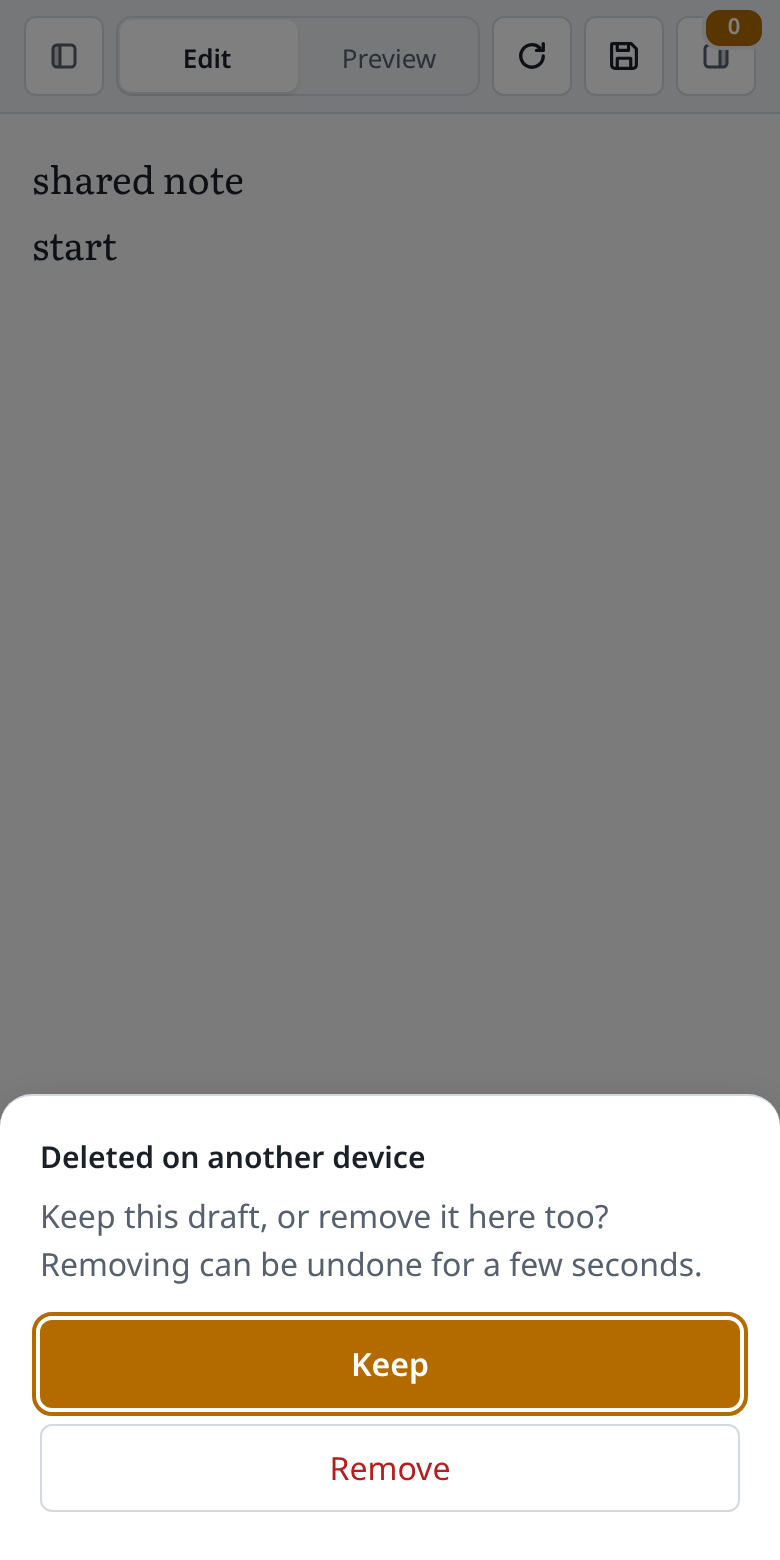
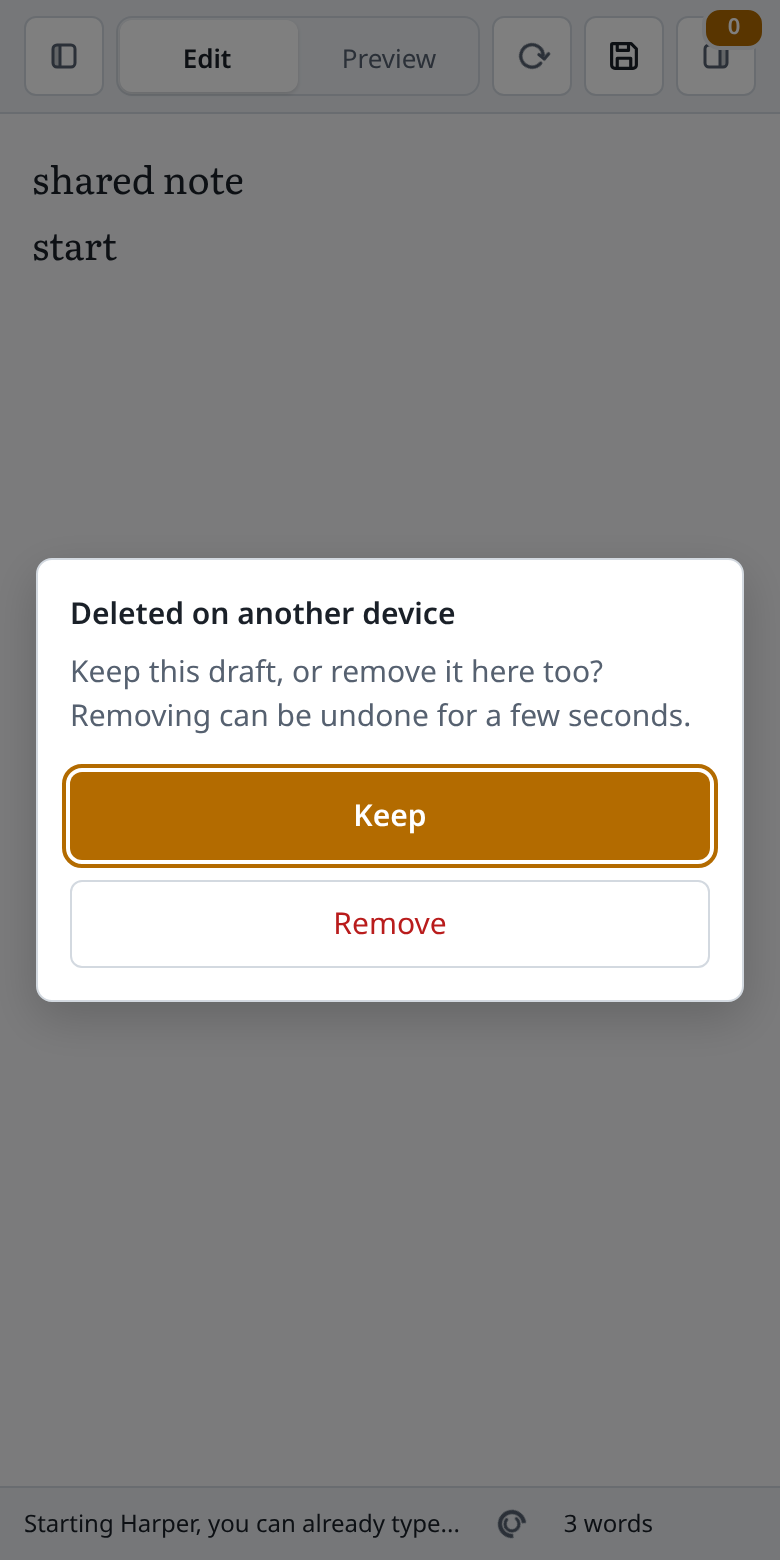
docs(screenshots): centered deleted-elsewhere dialog and version placement

diff --git a/pr-166/README.md b/pr-166/README.md
@@ -20,7 +20,9 @@
 - Narrow window: [linked](header-narrow-desktop-linked.png), [unlinked](header-narrow-desktop-unlinked.png), [struck](header-narrow-desktop-struck.png), [dot](header-narrow-desktop-dot.png), 320 px: [linked](header-narrow-desktop-320.png), [unlinked](header-narrow-desktop-320-unlinked.png), [struck](header-narrow-desktop-320-struck.png), [dot](header-narrow-desktop-320-dot.png)
 - Web on a phone: Save as file [320](header-phone-web-320-disk.png), [wider](header-phone-web-disk.png); Share (iPhone) [320](header-phone-web-320-share.png), [wider](header-phone-web-share.png)
 
-## Drafts drawer
+## Drafts drawer and version
 - [Drawer](modal-drawer.png)
+- Phone: [header, no version](version-header-phone.png), [drawer, version at the bottom](version-drawer-phone.png)
+- Desktop: [header, version at the end](version-header-desktop.png); the drawer shows none
 
 `mockups/` holds early sketches, superseded by the built dialog.
